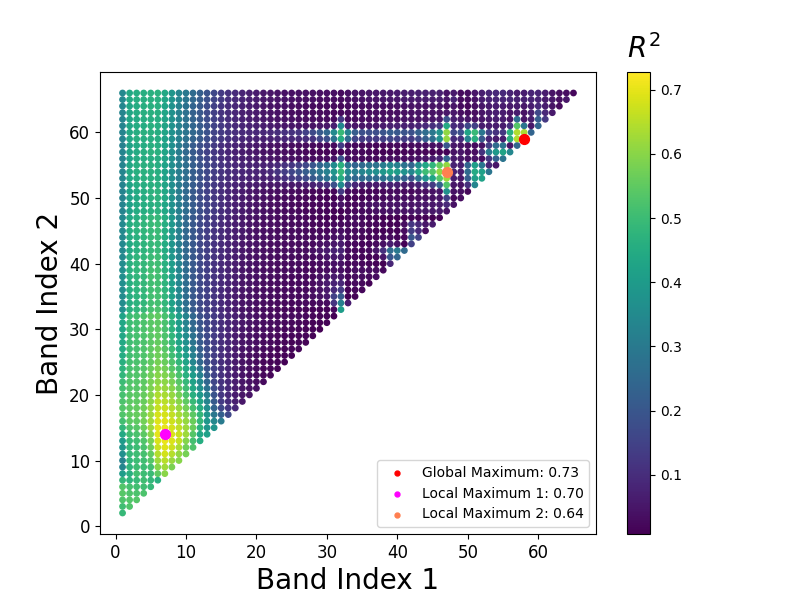
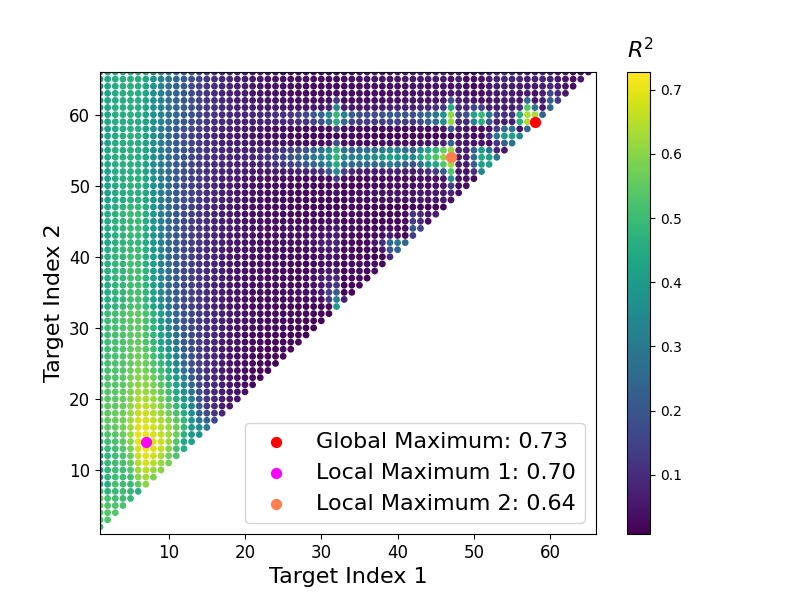
Start

diff --git a/plotters/classification_plots2.py b/plotters/classification_plots2.py
@@ -1,0 +1,57 @@
+import os
+import numpy as np
+import pandas as pd
+import matplotlib.pyplot as plt
+
+root = "../saved_figs"
+df_original = pd.read_csv("../final_results/classification.csv")
+priority_order = ['MCUVE', 'SPA', 'BS-Net-FC', 'Zhang et al.', 'BSDR', 'All Bands']
+display_alg = ['MCUVE [21]', 'SPA [20]', 'BS-Net-FC [28]', 'BS-Net-Classifier [25]', 'BSDR', 'All Bands']
+df_original['algorithm'] = pd.Categorical(df_original['algorithm'], categories=priority_order, ordered=True)
+df_original = df_original.sort_values('algorithm')
+colors = ['#909c86', '#e389b9', '#269658', '#5c1ad6', '#f20a21', '#000000']
+markers = ['s', 'P', 'D', '^', 'o', '*', '.']
+labels = ["Logarithmic Training Time","OA", "$\kappa$"]
+
+datasets = ["GHISACONUS", "Indian Pines"]
+
+for metric_index,metric in enumerate(["time"]):#, "metric1", "metric2"]):
+    for ds_index, dataset in enumerate(datasets):
+
+        dataset_df = df_original[df_original["dataset"] == dataset].copy()
+        dataset_df["time"] = np.log10(dataset_df["time"].replace(0, 1))  # To avoid -inf for zero values
+        #algorithms = dataset_df["algorithm"].unique()
+        for index, algorithm in enumerate(priority_order):
+            alg_df = dataset_df[dataset_df["algorithm"] == algorithm]
+            alg_df = alg_df.sort_values(by='target_size')
+            if algorithm == "All Bands":
+                if metric == "time":
+                    continue
+                else:
+                    ax.plot(alg_df['target_size'], alg_df[metric], label=algorithm,
+                            linestyle='--', color=colors[index])
+            else:
+                ax.plot(alg_df['target_size'], alg_df[metric],
+                        label=display_alg[index], marker=markers[index], color=colors[index],
+                        fillstyle='none', markersize=10, linewidth=2
+                        )
+
+        ax.set_xlabel('Target size', fontsize=18)
+        ax.set_ylabel(labels[metric_index], fontsize=18)
+        ax.tick_params(axis='both', which='major', labelsize=14)
+        if ds_index == len(datasets)-1:
+            legend = ax.legend(title="Algorithms", loc='upper left', fontsize=18,bbox_to_anchor=(1.05, 1))
+            legend.get_title().set_fontsize('18')
+            legend.get_title().set_fontweight('bold')
+
+        ax.grid(True, linestyle='--', alpha=0.6)
+
+        fig.set_size_inches(10, 6)
+
+        subfolder = os.path.join(root, "classification", metric)
+        os.makedirs(subfolder, exist_ok=True)
+        path = os.path.join(subfolder, f"{dataset}.png")
+        plt.tight_layout()
+        plt.savefig(path, dpi=300)
+        plt.close(fig)
+

diff --git a/helpers/mt_plot2b.py b/helpers/mt_plot2b.py
@@ -6,12 +6,13 @@ plt.figure(figsize=(8, 6))
 scatter = plt.scatter(df['band1'], df['band2'], c=df['score'], cmap='viridis', s=15)  # Decreased marker size
 cb = plt.colorbar(scatter, label='Score', orientation='vertical')
 cb.set_label('')
-cb.ax.set_title('$R^2$', loc='left', pad=10, fontsize=20)
-plt.xlabel('Band Index 1', fontsize=20)
-plt.ylabel('Band Index 2', fontsize=20)
+cb.ax.set_title('$R^2$', loc='left', pad=10, fontsize=16)
+plt.xlabel('Target Index 1', fontsize=16)
+plt.ylabel('Target Index 2', fontsize=16)
 plt.xticks(fontsize=12)
 plt.yticks(fontsize=12)
-
+plt.xlim([1,66])
+plt.ylim([1,66])
 row = df[(df['band1']==58) & (df['band2']==59)]
 value = round(row.iloc[0]['score'],2)
 plt.scatter(58, 59, color='red', s=50, label=f'Global Maximum: {value:0.2f}')
@@ -24,5 +25,5 @@ row = df[(df['band1']==47) & (df['band2']==54)]
 value = round(row.iloc[0]['score'],2)
 plt.scatter(47, 54, color='coral', s=50, label=f'Local Maximum 2: {value:0.2f}')
 
-plt.legend(loc='lower right', markerscale=0.5)
+plt.legend(loc='lower right', markerscale=1, fontsize=16, scatterpoints=1)
 plt.savefig("fig1.png")

diff --git a/plotters/band_change_ghis.py b/plotters/band_change_ghis.py
@@ -1,0 +1,30 @@
+import pandas as pd
+import matplotlib.pyplot as plt
+import os
+
+target_size = 10
+file = f"../results/bsdr-ghisaconus-10-0-8.csv"
+fig, ax = plt.subplots(1,1, figsize=(7, 5))
+df = pd.read_csv(file)
+band_labels = []
+for i in range(1,target_size+1):
+    band_labels.append(f"band_{i}")
+columns = ["epoch"] + band_labels
+df2 = df[columns].copy()
+cols_to_increment = df2.columns.difference(['epoch'])
+df2[cols_to_increment] = df2[cols_to_increment].add(1)
+for i in range(1,target_size+1):
+    ax.plot(df2["epoch"], df2[f"band_{i}"], label=f"Target Index {i}")
+ax.set_xlabel('Epoch')
+ax.set_ylabel('Bands Index')
+ax.set_xlim(0, 500)
+ax.set_ylim(1, 132)
+ax.legend(loc='best', bbox_to_anchor=(1.05, 0.91), borderaxespad=0.)
+plt.gca().spines['top'].set_visible(False)
+plt.gca().spines['right'].set_visible(False)
+plt.gca().spines['left'].set_visible(False)
+plt.gca().spines['bottom'].set_visible(False)
+plt.subplots_adjust(right=0.7)
+plt.savefig("../saved_figs/bands/ghisaconus_10.png")
+plt.clf()
+

diff --git a/result_processor/band_selected_5.py b/result_processor/band_selected_5.py
@@ -1,0 +1,25 @@
+import pandas as pd
+
+
+def create_latex():
+    df = pd.read_csv("../temp/4v_500/details_4v_500.csv")
+    df = df[df["target_size"] == 5]
+    priority_order = ['ghisaconus', 'indian_pines', 'lucas']
+    df['dataset'] = pd.Categorical(df['dataset'], categories=priority_order, ordered=True)
+    df = df.sort_values('dataset')
+    for fold in range(10):
+        fold_df = df[df["fold"] == fold]
+
+        g_bands = fold_df[fold_df["dataset"] == "ghisaconus"]["selected_features"].values[0]
+        g_bands = ", ".join(g_bands.split("-"))
+
+        i_bands = fold_df[fold_df["dataset"] == "indian_pines"]["selected_features"].values[0]
+        i_bands = ", ".join(i_bands.split("-"))
+
+        l_bands = fold_df[fold_df["dataset"] == "lucas"]["selected_features"].values[0]
+        l_bands = ", ".join(l_bands.split("-"))
+
+        print(f"{fold+1} & {g_bands} & {i_bands} & {l_bands} \\\\")
+
+
+create_latex()

diff --git a/result_processor/band_selected_10_ghisaconus.py b/result_processor/band_selected_10_ghisaconus.py
@@ -1,0 +1,16 @@
+import pandas as pd
+
+
+def create_latex():
+    df = pd.read_csv("../temp/4v_500/details_4v_500.csv")
+    df = df[ (df["target_size"] == 10) & (df["dataset"] == "ghisaconus") ]
+
+    for fold in range(10):
+        fold_df = df[df["fold"] == fold]
+
+        g_bands = ", ".join(fold_df["selected_features"].values[0].split("-"))
+
+        print(f"{fold+1} & {g_bands}  \\\\")
+
+
+create_latex()
